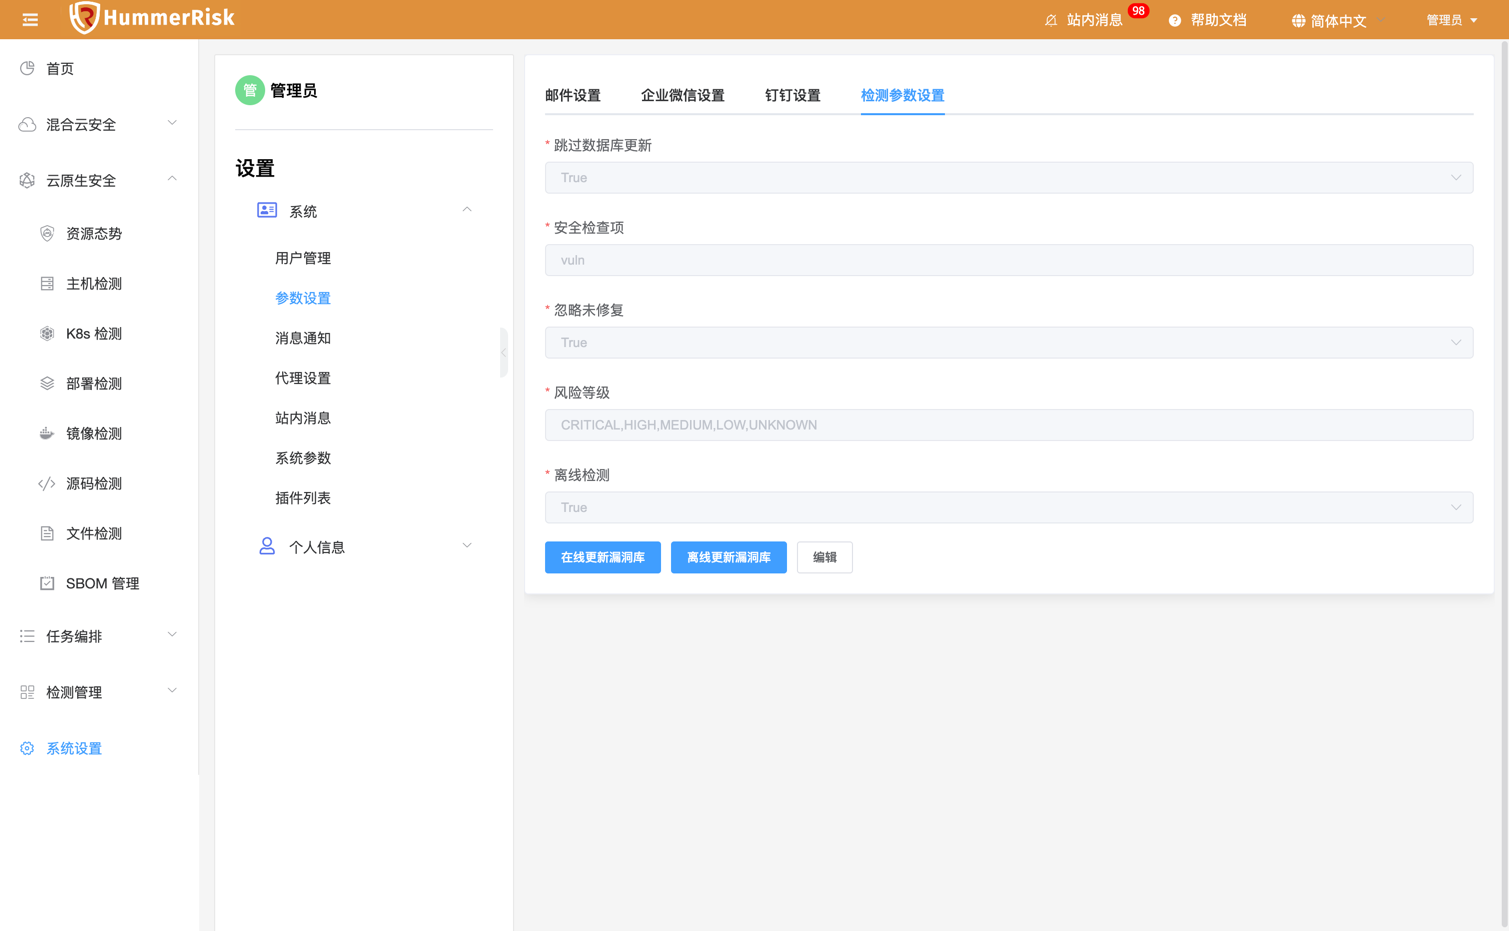
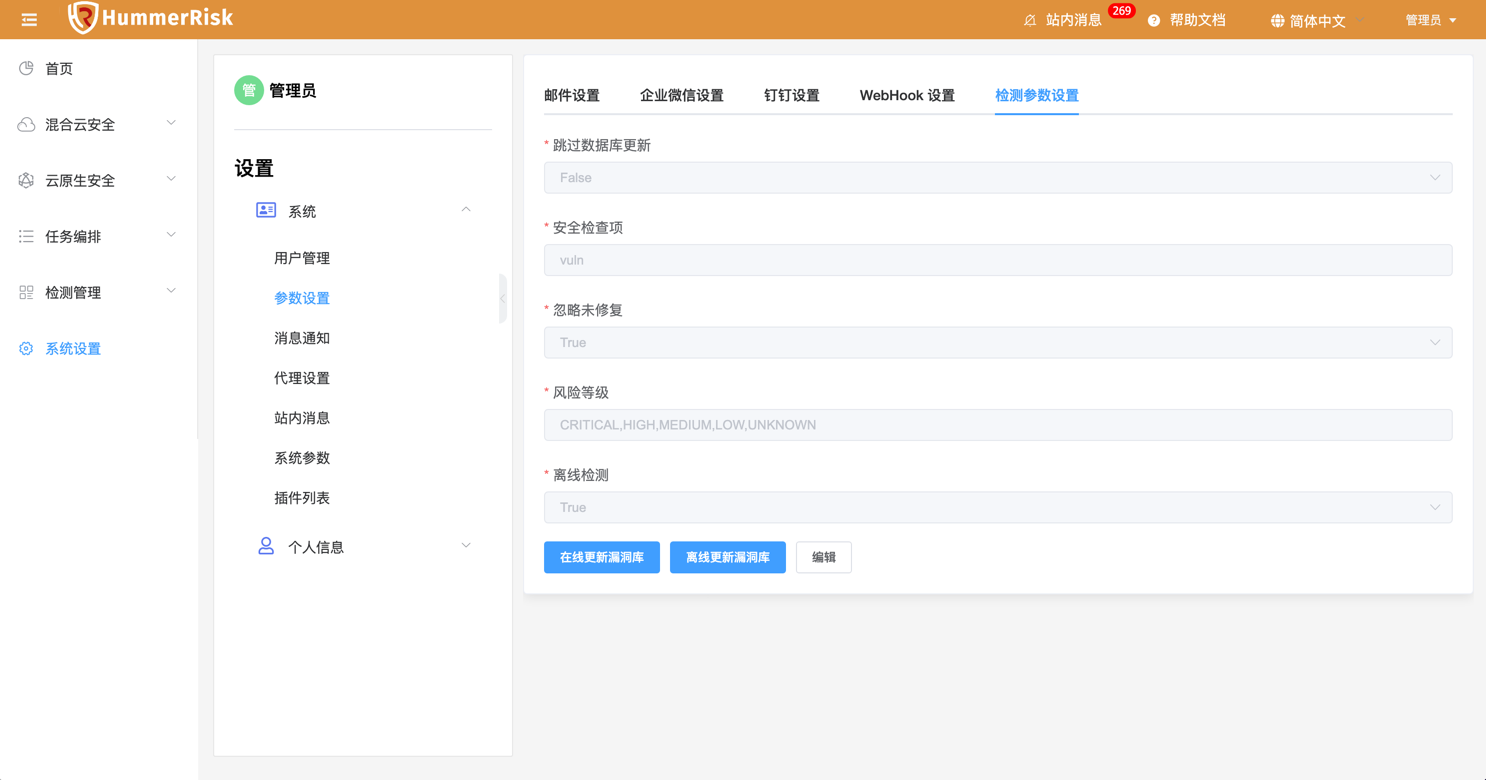
feat(settings): 更新系统设置说明

diff --git a/docs/user/settings.md b/docs/user/settings.md
@@ -13,10 +13,13 @@
     通过邮件设置配置 SMTP 主机、SMTP 端口、SMTP 账户、SMTP 密码等信息。
 
 !!! abstract "企业微信设置"
-    通过企业微信设置配置 cropid、agentid、secret、测试用户等信息。
+    通过企业微信设置，配置 cropid、agentid、secret、测试用户等信息实现企业微信消息通知。
 
 !!! abstract "钉钉设置"
-    通过钉钉设置配置 AppKey、AgentId、AppSecret、测试用户等信息。
+    通过钉钉设置配置 AppKey、AgentId、AppSecret、测试用户等信息实现钉钉消息通知。
+
+!!! abstract "WebHook 设置"
+    通过 WebHook 设置绑定 WebHook 服务端地址，可以实现基于 WebHook 的消息通知。
 
 !!! abstract "检测参数设置"
     - 通过检测参数设置， 配置云原生安全检测的参数，例如是否离线检测、检测安全项、风险等级等信息。
